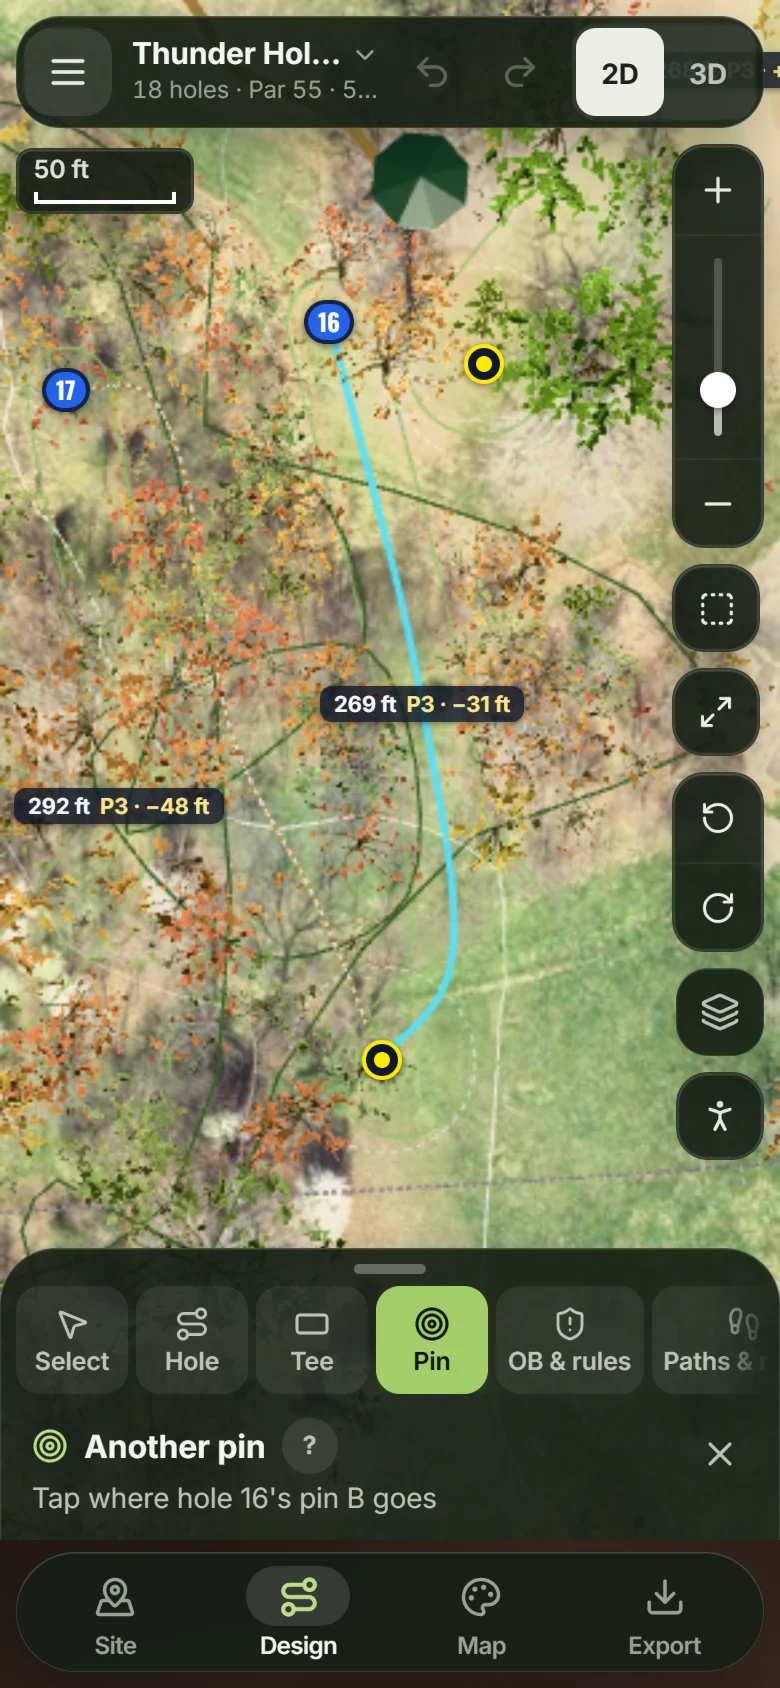
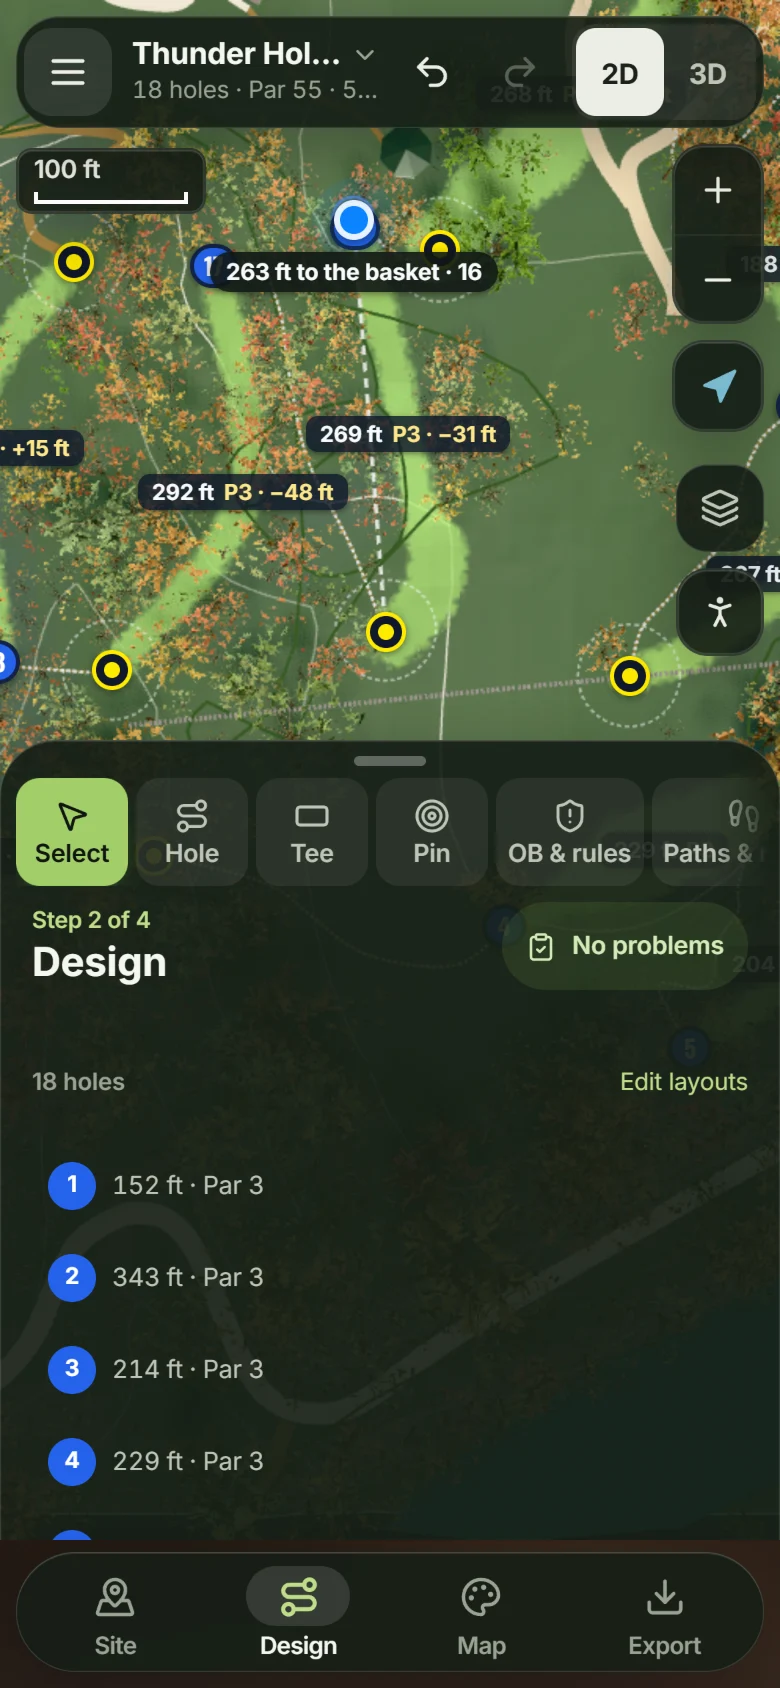
On site: phones level, the location dot and distance in view

diff --git a/index.html b/index.html
@@ -187,7 +187,7 @@ p { margin: 0; text-wrap: pretty; }
 
 /* On site: two phones */
 .onsite { display: grid; grid-template-columns: repeat(2, minmax(0, 1fr)); gap: clamp(16px, 4vw, 48px); max-width: 640px; margin: 0 auto; align-items: start; }
-.onsite .phone:nth-child(2) { margin-top: 56px; }
+
 @media (max-width: 520px) { .onsite .phone { border-radius: 24px; padding: 4px; } .onsite .phone img { border-radius: 20px; } }
 
 /* And more: a bento of the rest */
